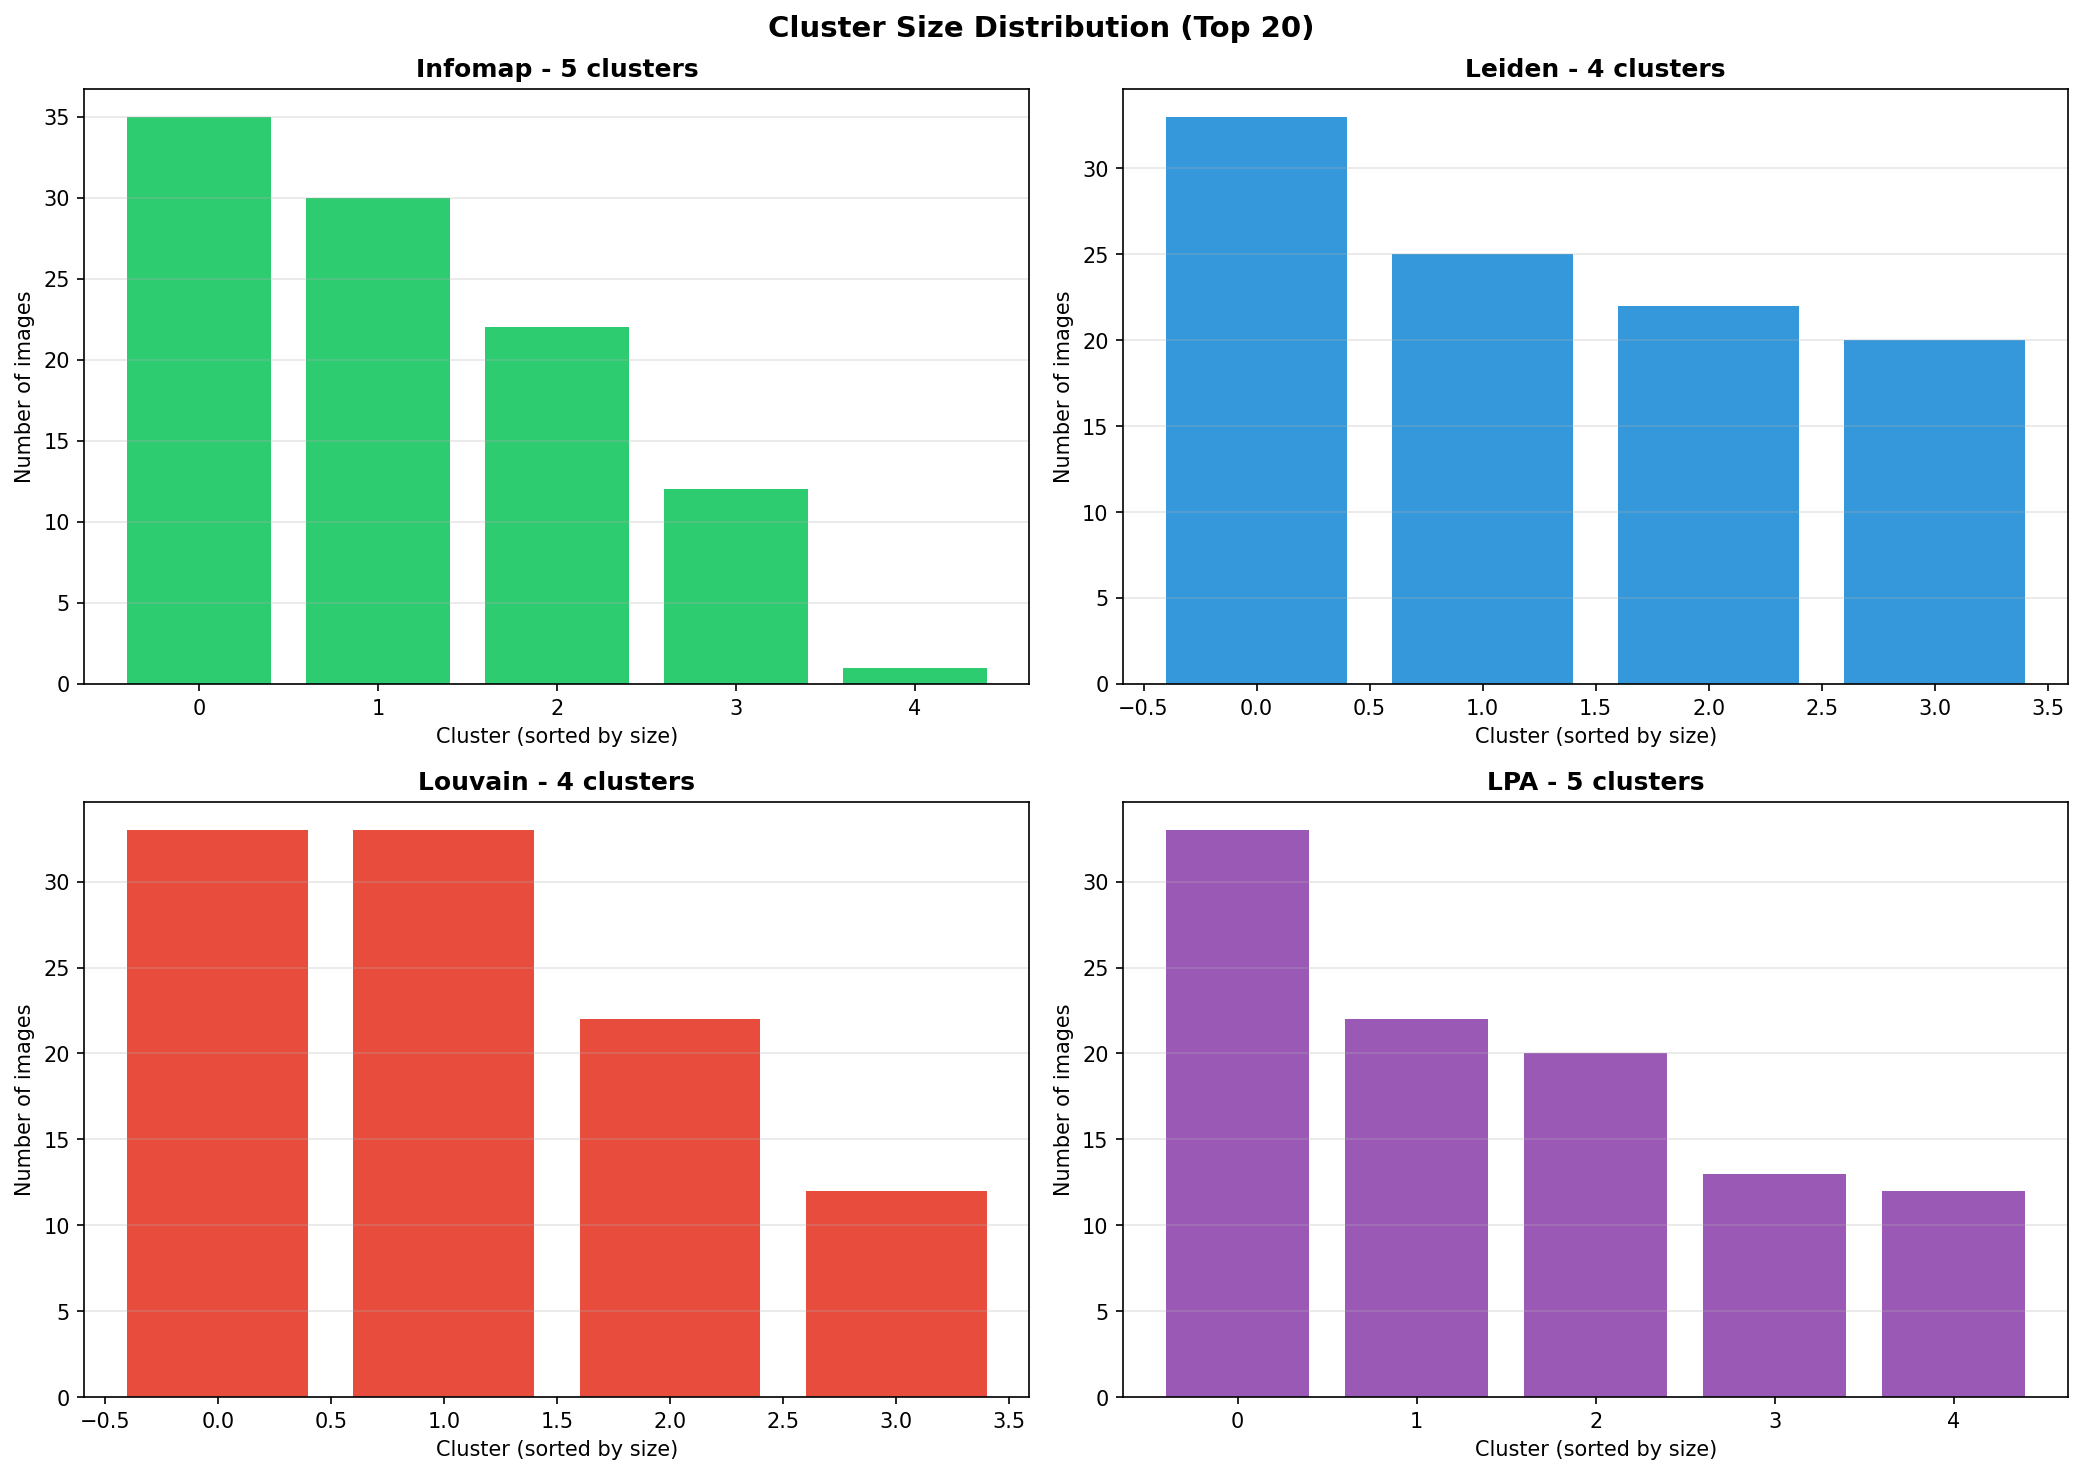
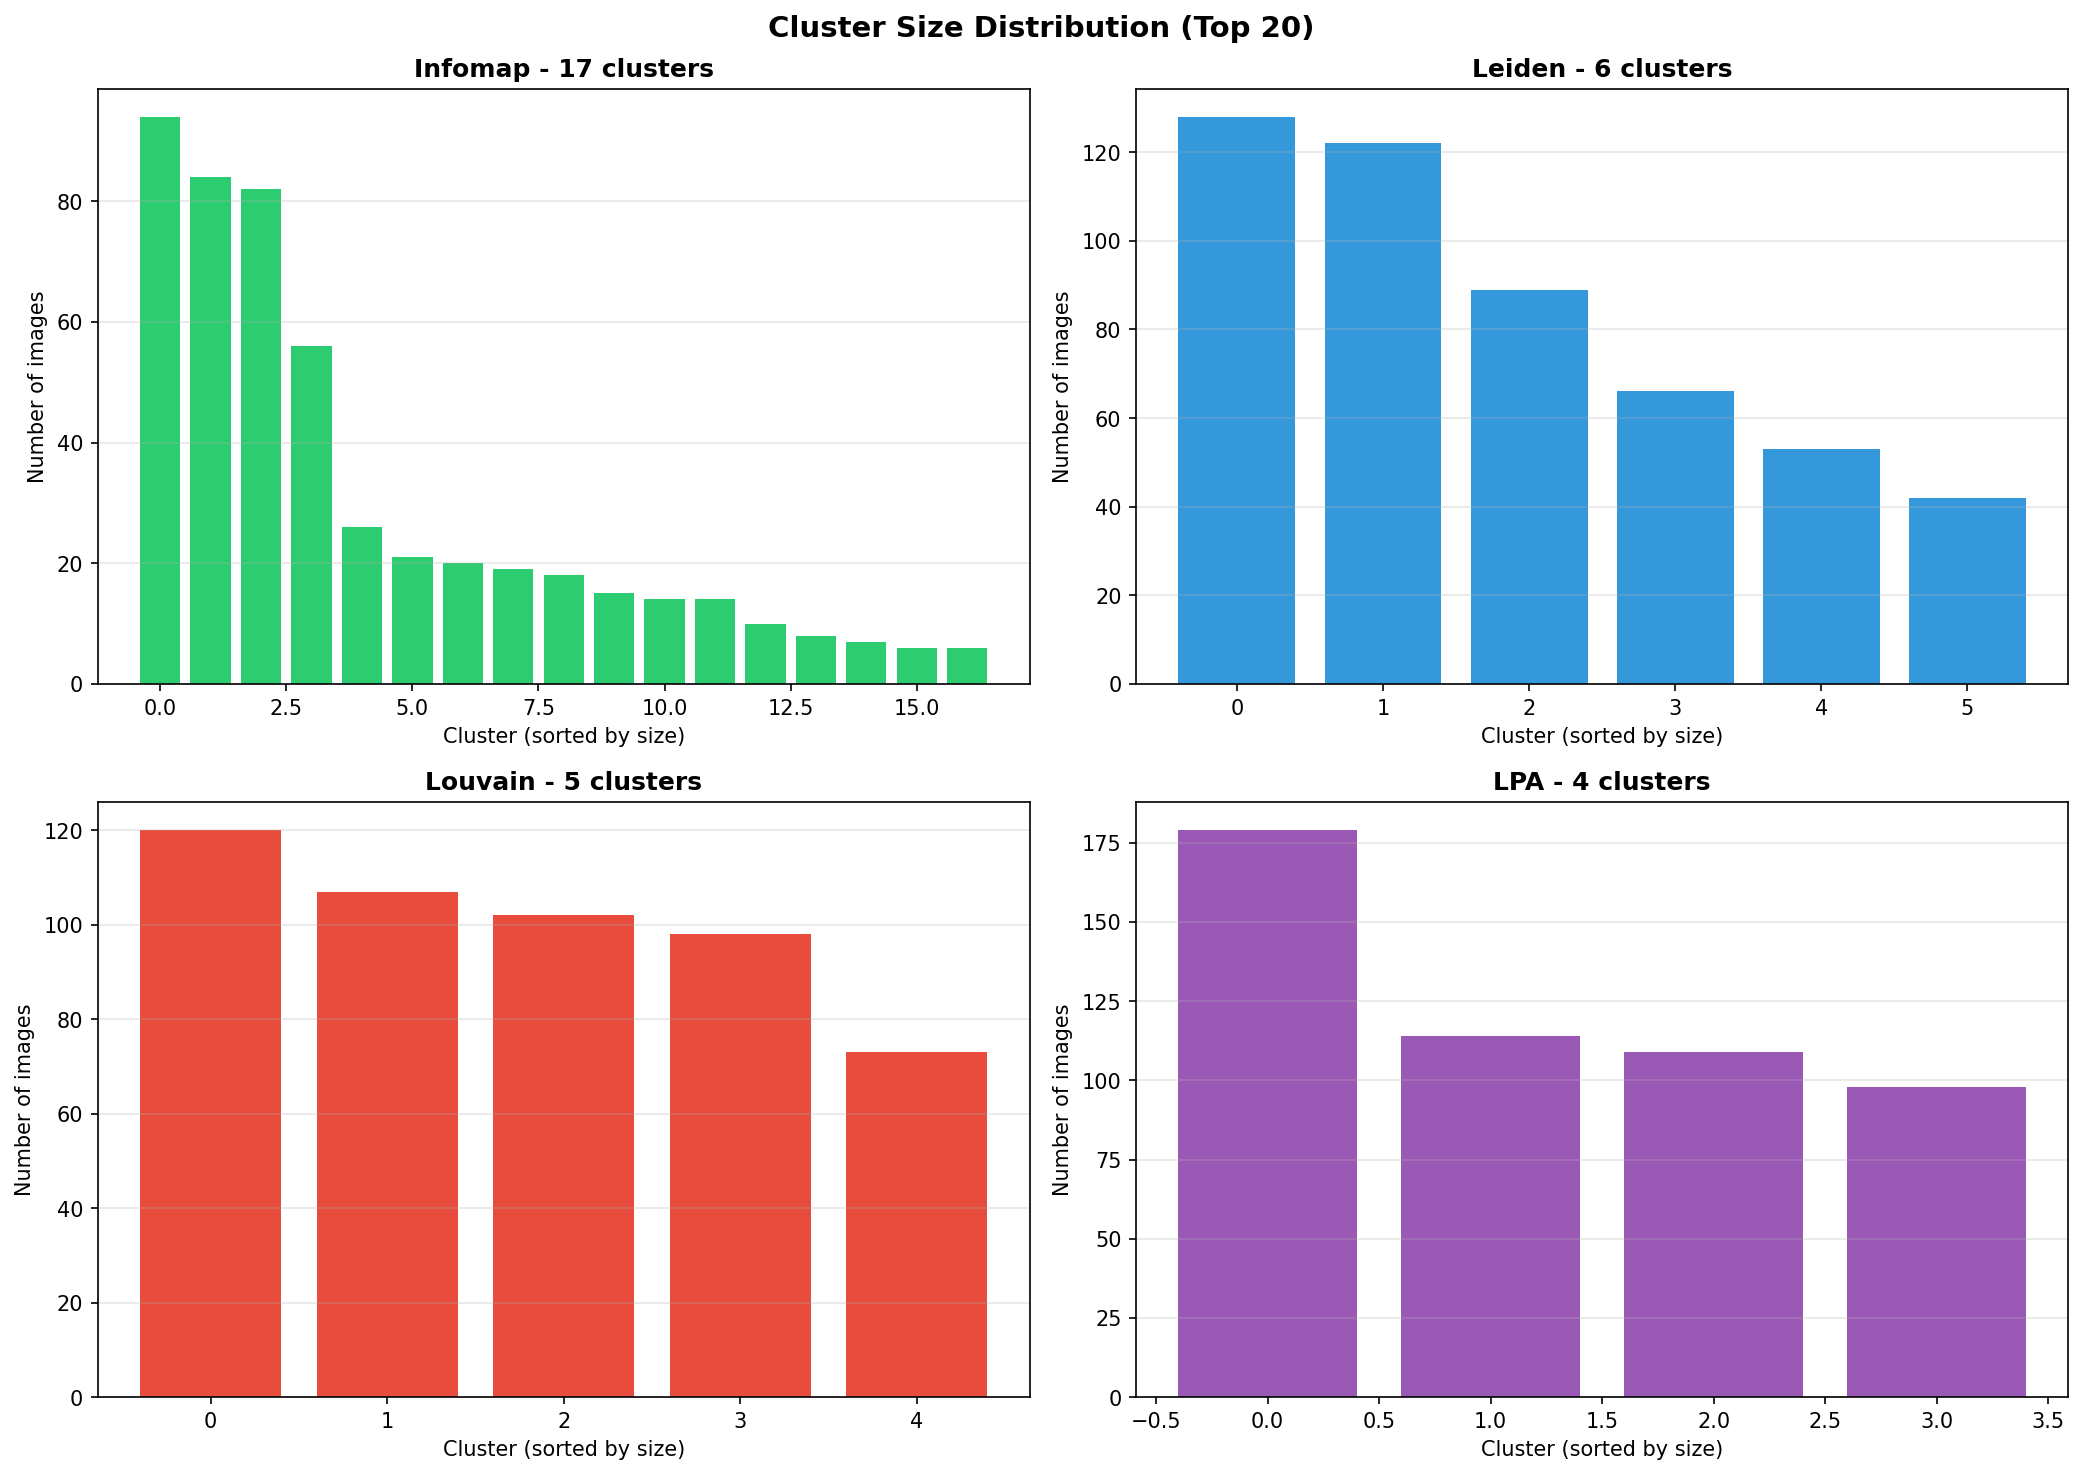
Cập nhật mô hình trích xuất vector đặc trưng tốt hơn DINOv2

diff --git a/src/utils/evaluation.py b/src/utils/evaluation.py
@@ -176,40 +176,29 @@ def evaluate_clustering(true_labels, pred_labels, graph=None):
         graph: igraph.Graph (optional, để tính modularity)
     
     Returns:
-        dict chứa tất cả metrics
+        dict chứa 4 metrics: NMI, Purity, ARI, Modularity
     """
     pred_labels = np.asarray(pred_labels)
 
     if _is_multilabel_array(true_labels):
         true_label_sets = _to_label_sets(true_labels)
         true_labels_single = _to_single_labels_from_sets(true_label_sets)
-
-        results = {
-            'NMI': compute_nmi(true_labels_single, pred_labels),
-            'ARI': compute_ari(true_labels_single, pred_labels),
-            'Purity': compute_purity(true_labels_single, pred_labels),
-            'Purity_relaxed': compute_relaxed_purity(true_label_sets, pred_labels),
-            'FMI': compute_fmi(true_labels_single, pred_labels),
-            'V-Measure': compute_v_measure(true_labels_single, pred_labels),
-            'Homogeneity': homogeneity_score(true_labels_single, pred_labels),
-            'Completeness': completeness_score(true_labels_single, pred_labels),
-        }
+        purity = compute_purity(true_labels_single, pred_labels)
+        nmi = compute_nmi(true_labels_single, pred_labels)
+        ari = compute_ari(true_labels_single, pred_labels)
     else:
-        results = {
-            'NMI': compute_nmi(true_labels, pred_labels),
-            'ARI': compute_ari(true_labels, pred_labels),
-            'Purity': compute_purity(true_labels, pred_labels),
-            'Purity_relaxed': compute_purity(true_labels, pred_labels),
-            'FMI': compute_fmi(true_labels, pred_labels),
-            'V-Measure': compute_v_measure(true_labels, pred_labels),
-            'Homogeneity': homogeneity_score(true_labels, pred_labels),
-            'Completeness': completeness_score(true_labels, pred_labels),
-        }
-    
-    if graph is not None:
-        results['Modularity'] = compute_modularity(graph, pred_labels)
-    
-    return results
+        purity = compute_purity(true_labels, pred_labels)
+        nmi = compute_nmi(true_labels, pred_labels)
+        ari = compute_ari(true_labels, pred_labels)
+
+    modularity = compute_modularity(graph, pred_labels) if graph is not None else np.nan
+
+    return {
+        'NMI': nmi,
+        'Purity': purity,
+        'ARI': ari,
+        'Modularity': modularity,
+    }
 
 
 def evaluate_all_algorithms(true_labels, clustering_results, graph=None):
@@ -238,10 +227,10 @@ def print_evaluation_results(results, metrics=None):
     
     Args:
         results: dict {algorithm_name: {metric: value}}
-        metrics: List metrics cần hiển thị (mặc định: NMI, ARI, Purity, Modularity)
+        metrics: List metrics cần hiển thị (mặc định: NMI, Purity, ARI, Modularity)
     """
     if metrics is None:
-        metrics = ['NMI', 'ARI', 'Purity', 'Purity_relaxed', 'Modularity']
+        metrics = ['NMI', 'Purity', 'ARI', 'Modularity']
     
     # Header
     print("\n" + "="*70)

diff --git a/src/utils/visualization.py b/src/utils/visualization.py
@@ -29,25 +29,31 @@ def plot_metrics_comparison(results, save_path=None):
         save_path = os.path.join(config.RESULTS_PATH, 'comparison.png')
     
     algorithms = list(results.keys())
-    metrics = ['NMI', 'ARI', 'Purity', 'Modularity']
+    metrics = ['NMI', 'Purity', 'ARI', 'Modularity']
     colors = ['#2ecc71', '#3498db', '#e74c3c', '#9b59b6']
-    
+
     fig, axes = plt.subplots(2, 2, figsize=(12, 10))
     axes = axes.flatten()
-    
+
     for idx, metric in enumerate(metrics):
         values = [results[algo].get(metric, 0) for algo in algorithms]
         bars = axes[idx].bar(algorithms, values, color=colors[idx], edgecolor='black')
-        
+
         axes[idx].set_title(f'{metric} Comparison', fontsize=14, fontweight='bold')
         axes[idx].set_ylabel(metric, fontsize=12)
         axes[idx].set_ylim(0, 1.1 if metric != 'ARI' else max(values) + 0.1)
-        
+
         # Hiển thị giá trị trên bar
         for bar, v in zip(bars, values):
-            axes[idx].text(bar.get_x() + bar.get_width()/2, bar.get_height() + 0.02,
-                          f'{v:.3f}', ha='center', va='bottom', fontsize=11)
-        
+            axes[idx].text(
+                bar.get_x() + bar.get_width() / 2,
+                bar.get_height() + 0.02,
+                f'{v:.3f}',
+                ha='center',
+                va='bottom',
+                fontsize=11
+            )
+
         axes[idx].axhline(y=0, color='black', linestyle='-', linewidth=0.5)
         axes[idx].grid(axis='y', alpha=0.3)
     
@@ -71,24 +77,24 @@ def plot_radar_chart(results, save_path=None):
         save_path = os.path.join(config.RESULTS_PATH, 'radar_chart.png')
     
     algorithms = list(results.keys())
-    metrics = ['NMI', 'ARI', 'Purity', 'Modularity']
-    
+    metrics = ['NMI', 'Purity', 'ARI', 'Modularity']
+
     # Số lượng metrics
     n_metrics = len(metrics)
     angles = np.linspace(0, 2 * np.pi, n_metrics, endpoint=False).tolist()
     angles += angles[:1]  # Đóng vòng
-    
+
     fig, ax = plt.subplots(figsize=(10, 10), subplot_kw=dict(polar=True))
-    
+
     colors = ['#2ecc71', '#3498db', '#e74c3c', '#9b59b6']
-    
+
     for idx, algo in enumerate(algorithms):
         values = [max(0, results[algo].get(m, 0)) for m in metrics]
         values += values[:1]
-        
+
         ax.plot(angles, values, 'o-', linewidth=2, label=algo, color=colors[idx])
         ax.fill(angles, values, alpha=0.15, color=colors[idx])
-    
+
     ax.set_xticks(angles[:-1])
     ax.set_xticklabels(metrics, fontsize=12)
     ax.set_ylim(0, 1)

diff --git a/src/models/feature_extractor.py b/src/models/feature_extractor.py
@@ -26,6 +26,7 @@ class FeatureExtractor:
     - efficientnet_v2_s (1280 dims)
     - efficientnet_b7 (2560 dims)
     - resnet50 (2048 dims)
+    - dinov2_vits14 (384 dims)
     """
     
     SUPPORTED_MODELS = {
@@ -34,6 +35,7 @@ class FeatureExtractor:
         'efficientnet_v2_s': {'input_size': 384, 'feature_dim': 1280},
         'efficientnet_b7': {'input_size': 600, 'feature_dim': 2560},
         'resnet50': {'input_size': 224, 'feature_dim': 2048},
+        'dinov2_vits14': {'input_size': 224, 'feature_dim': 384},
     }
 
     @staticmethod
@@ -99,6 +101,16 @@ class FeatureExtractor:
         elif self.model_name == 'resnet50':
             model = models.resnet50(weights=models.ResNet50_Weights.DEFAULT)
             model = nn.Sequential(*list(model.children())[:-1])
+
+        elif self.model_name == 'dinov2_vits14':
+            try:
+                # DINOv2 backbone từ torch.hub (facebookresearch/dinov2)
+                model = torch.hub.load('facebookresearch/dinov2', 'dinov2_vits14')
+            except Exception as exc:
+                raise RuntimeError(
+                    "Không tải được DINOv2 từ torch.hub. "
+                    "Kiểm tra kết nối mạng và thử lại."
+                ) from exc
         
         model = model.to(self.device)
         model.eval()

diff --git a/main.py b/main.py
@@ -8,7 +8,7 @@ Pipeline:
 2. Feature Extraction (EfficientNet) → Vector cao chiều  
 3. Build Graph (k-NN + Cosine Similarity) → Đồ thị cộng đồng
 4. Community Detection (4 thuật toán) → Cluster labels
-5. Evaluate & Compare với Ground Truth → NMI, ARI, Purity
+5. Evaluate & Compare với Ground Truth → NMI, Purity, ARI, Modularity
 
 Cách chạy:
     python main.py
@@ -191,9 +191,11 @@ def main(
     # Phân bố cluster
     plot_cluster_distribution(clustering_results)
     
-    # Visualize clusters của thuật toán tốt nhất
-    best_algo = max(evaluation_results.keys(), 
-                   key=lambda x: evaluation_results[x]['NMI'])
+    # Visualize clusters của thuật toán tốt nhất theo NMI
+    best_algo = max(
+        evaluation_results.keys(),
+        key=lambda x: evaluation_results[x]['NMI']
+    )
     print(f"\nVisualizing clusters from best algorithm: {best_algo}")
     if images is not None:
         visualize_clusters(images, clustering_results[best_algo])

diff --git a/src/config.py b/src/config.py
@@ -9,7 +9,7 @@ class Config:
     RESULTS_PATH = 'results'
     
     # Feature Extraction
-    MODEL_NAME = 'efficientnet_v2_l'  # efficientnet_v2_l, efficientnet_v2_m, efficientnet_v2_s, resnet50
+    MODEL_NAME = 'dinov2_vits14'  # efficientnet_v2_l, efficientnet_v2_m, efficientnet_v2_s, efficientnet_b7, resnet50, dinov2_vits14
     BATCH_SIZE = 32
     DEVICE = 'cuda' if torch.cuda.is_available() else 'cpu'
     